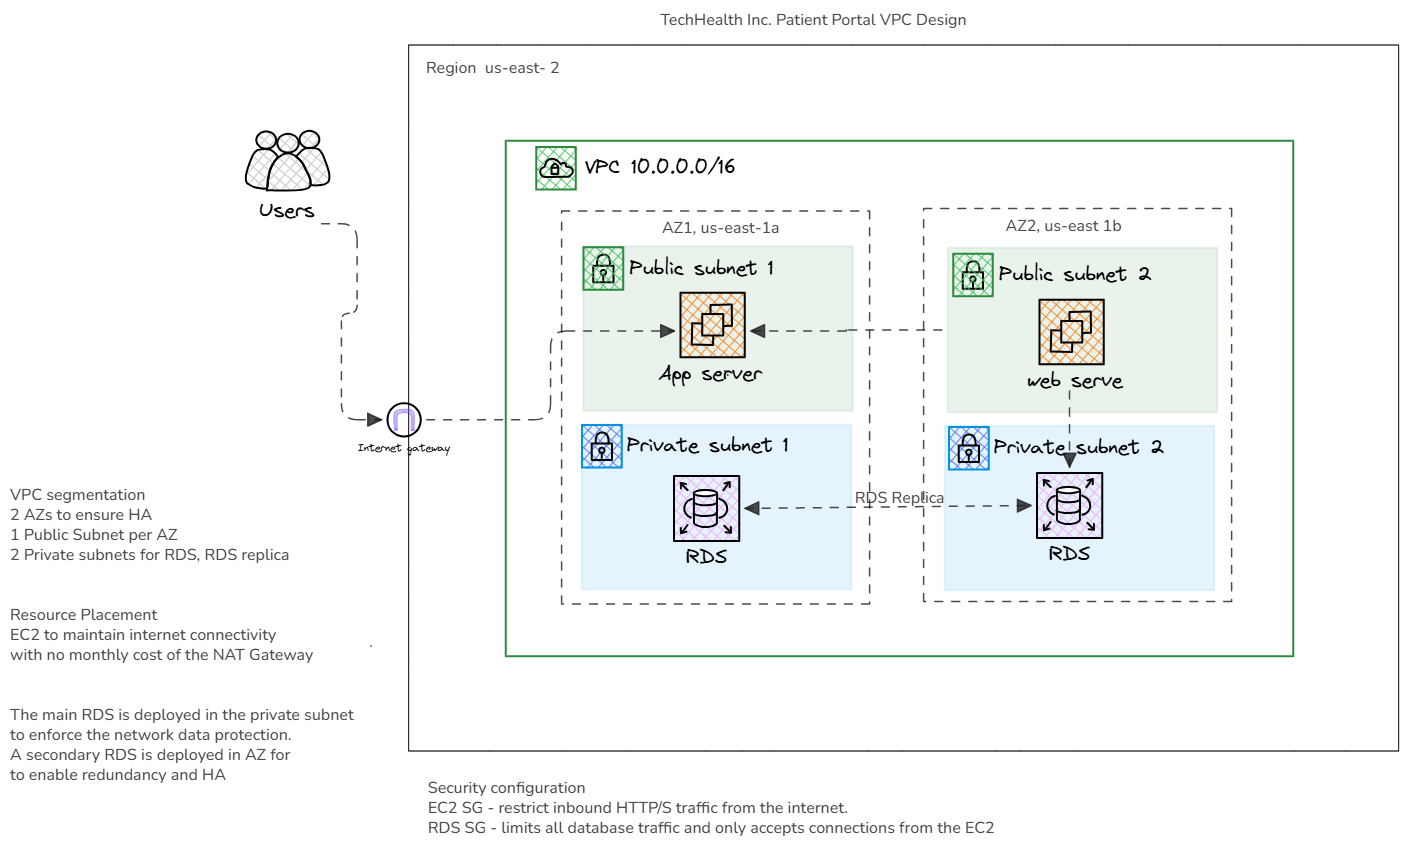
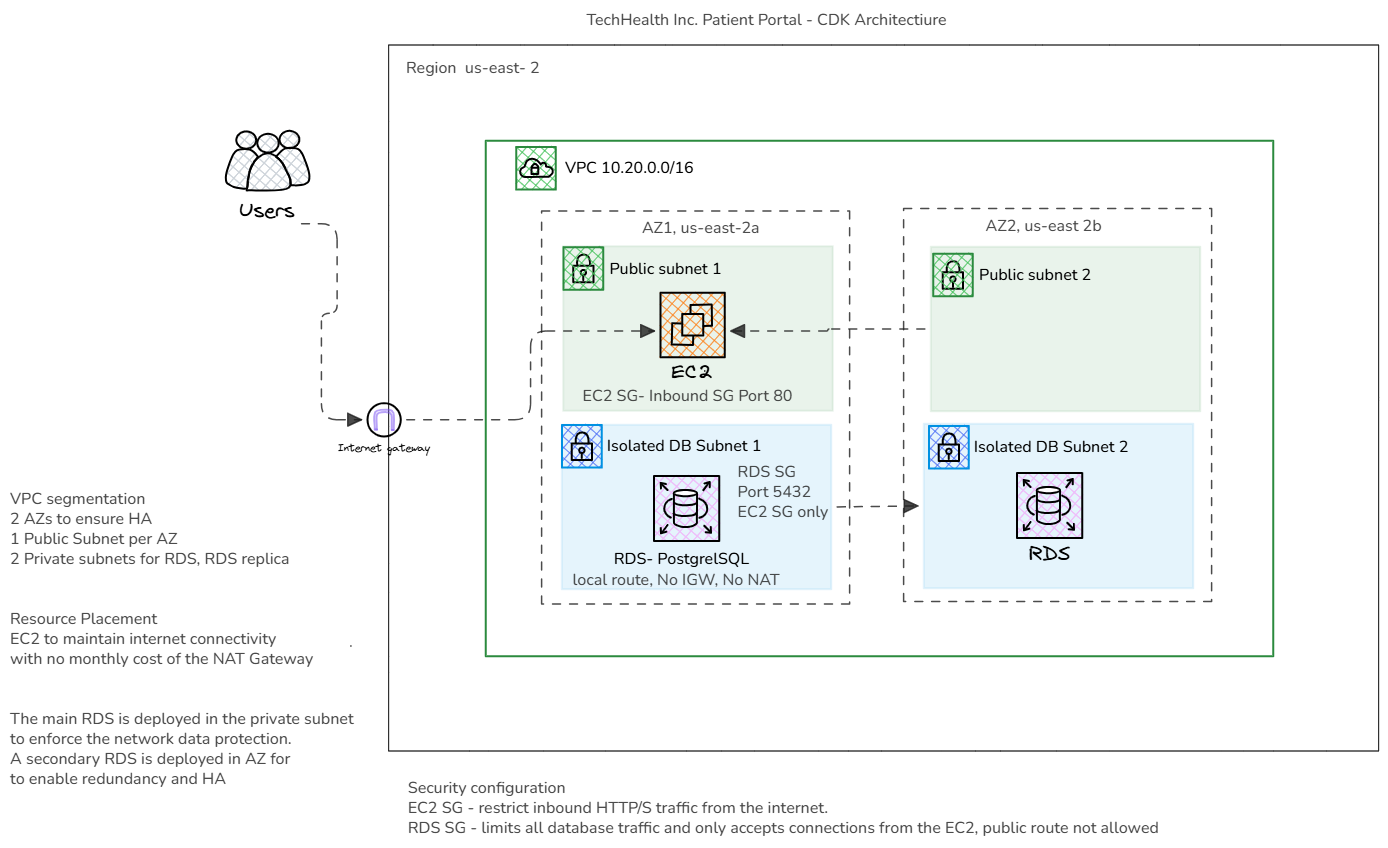
Add architecture and screenshot evidence

diff --git a/README.md b/README.md
@@ -1,19 +1,3 @@
-# Welcome to your CDK TypeScript project
-
-This is a project for CDK development with TypeScript.
-
-The `cdk.json` file tells the CDK Toolkit how to execute your app.
-
-## Useful commands
-
-* `npm run build`   type-check the project
-* `npm run watch`   watch for changes and type-check
-* `npm run test`    perform the jest unit tests
-* `npx cdk deploy`  deploy this stack to your default AWS account/region
-* `npx cdk diff`    compare deployed stack with current state
-* `npx cdk synth`   emits the synthesized CloudFormation template
-
-
 # TechHealth Patient Portal Infrastructure Modernization
 
 ## Project Overview
@@ -39,32 +23,10 @@ This project modernizes the patient portal infrastructure using the AWS Cloud De
 
 ## Architecture
 
-```mermaid
-flowchart TB
-    USER["Patient or Tester"] -->|HTTP 80| IGW["Internet Gateway"]
 
-    subgraph VPC["TechHealth VPC — 10.20.0.0/16"]
-        subgraph AZ1["Availability Zone 1"]
-            PUB1["Public Subnet 1"]
-            EC2["EC2 t2.micro<br/>Patient Portal"]
-            DB1["Isolated Database Subnet 1"]
-        end
+The following diagram illustrates the TechHealth patient portal infrastructure deployed with AWS CDK.
 
-        subgraph AZ2["Availability Zone 2"]
-            PUB2["Public Subnet 2"]
-            DB2["Isolated Database Subnet 2"]
-        end
-
-        IGW --> PUB1
-        PUB1 --> EC2
-        EC2 -->|PostgreSQL 5432| RDS["RDS PostgreSQL<br/>db.t3.micro"]
-        DB1 --- RDS
-        DB2 --- RDS
-    end
-
-    EC2 --> SSM["AWS Systems Manager"]
-    EC2 --> SM["AWS Secrets Manager"]
-```
+![TechHealth Patient Portal Architecture](screenshots/architecture/Architecture.png)
 
 ## Architecture Components
 
